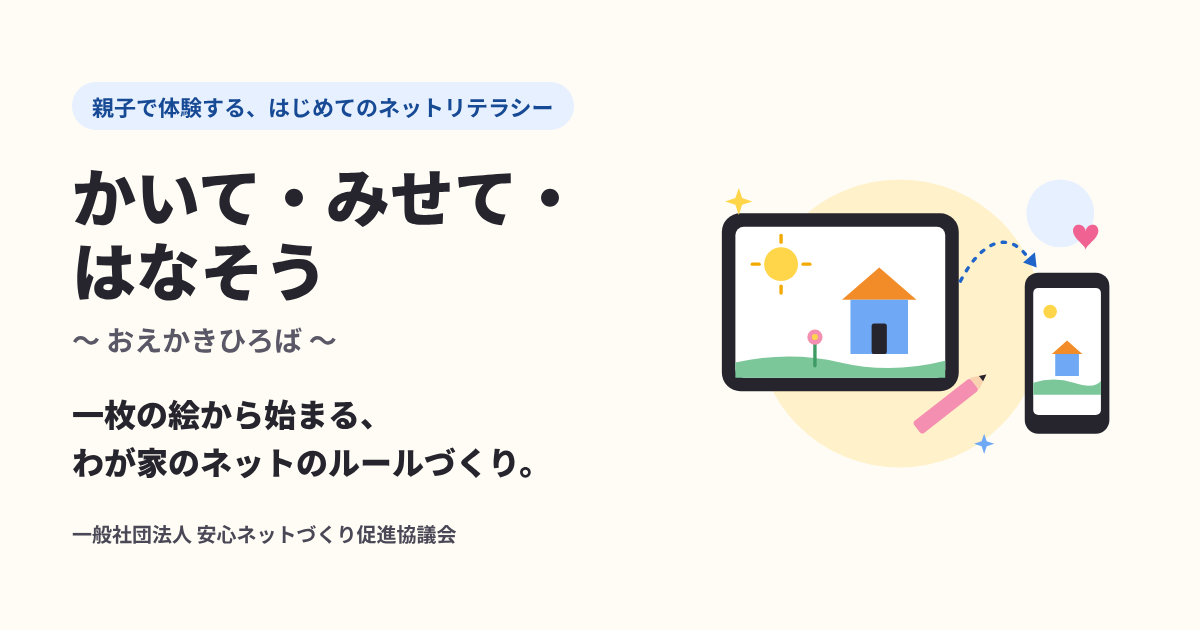
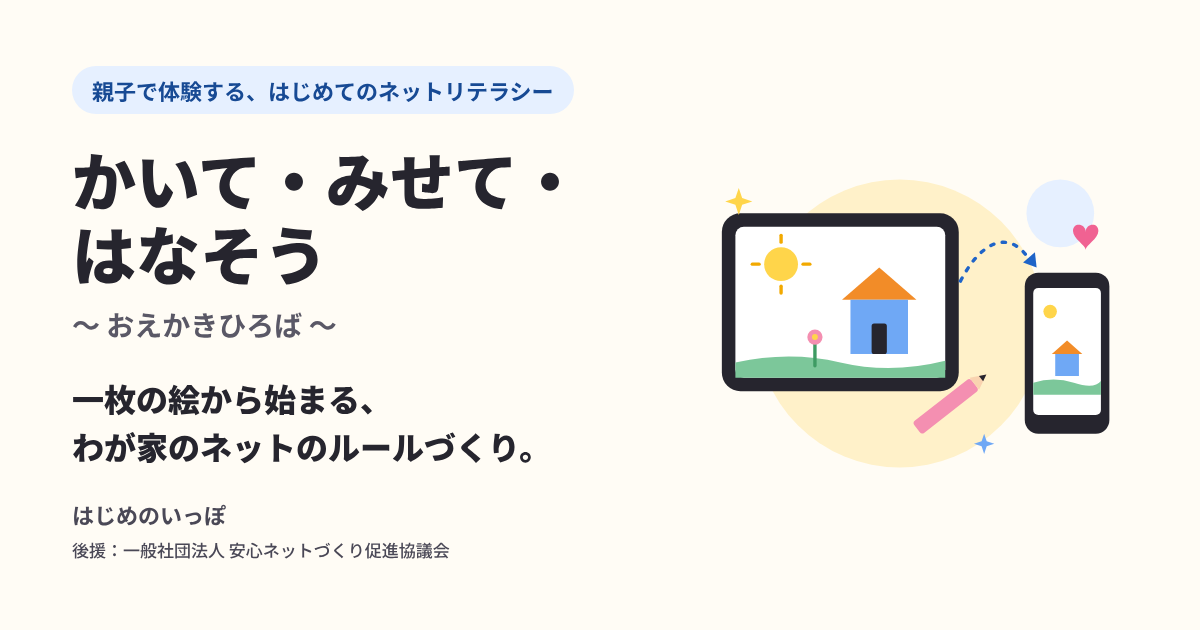
安心ネットづくり促進協議会の表記を「後援」に変更
Claude-Session: https://claude.ai/code/session_018FxDjrkxgG9Gp6VBXbLpP5

diff --git a/about.html b/about.html
@@ -132,7 +132,7 @@
   <div class="container">
     <div>
       <p class="brand">はじめのいっぽ</p>
-      <p class="org">一般社団法人 安心ネットづくり促進協議会</p>
+      <p class="org">後援：一般社団法人 安心ネットづくり促進協議会</p>
     </div>
     <nav class="footer-nav" aria-label="フッターメニュー">
       <ul>

diff --git a/howto.html b/howto.html
@@ -142,7 +142,7 @@
   <div class="container">
     <div>
       <p class="brand">はじめのいっぽ</p>
-      <p class="org">一般社団法人 安心ネットづくり促進協議会</p>
+      <p class="org">後援：一般社団法人 安心ネットづくり促進協議会</p>
     </div>
     <nav class="footer-nav" aria-label="フッターメニュー">
       <ul>

diff --git a/index.html b/index.html
@@ -143,7 +143,7 @@
   <div class="container">
     <div>
       <p class="brand">はじめのいっぽ</p>
-      <p class="org">一般社団法人 安心ネットづくり促進協議会</p>
+      <p class="org">後援：一般社団法人 安心ネットづくり促進協議会</p>
     </div>
     <nav class="footer-nav" aria-label="フッターメニュー">
       <ul>

diff --git a/kindergarten.html b/kindergarten.html
@@ -116,7 +116,7 @@
   <div class="container">
     <div>
       <p class="brand">はじめのいっぽ</p>
-      <p class="org">一般社団法人 安心ネットづくり促進協議会</p>
+      <p class="org">後援：一般社団法人 安心ネットづくり促進協議会</p>
     </div>
     <nav class="footer-nav" aria-label="フッターメニュー">
       <ul>

diff --git a/parents.html b/parents.html
@@ -136,7 +136,7 @@
   <div class="container">
     <div>
       <p class="brand">はじめのいっぽ</p>
-      <p class="org">一般社団法人 安心ネットづくり促進協議会</p>
+      <p class="org">後援：一般社団法人 安心ネットづくり促進協議会</p>
     </div>
     <nav class="footer-nav" aria-label="フッターメニュー">
       <ul>

diff --git a/contact.html b/contact.html
@@ -65,7 +65,7 @@
   <div class="container">
     <div>
       <p class="brand">はじめのいっぽ</p>
-      <p class="org">一般社団法人 安心ネットづくり促進協議会</p>
+      <p class="org">後援：一般社団法人 安心ネットづくり促進協議会</p>
     </div>
     <nav class="footer-nav" aria-label="フッターメニュー">
       <ul>

diff --git a/kids.html b/kids.html
@@ -89,7 +89,7 @@
   <div class="container">
     <div>
       <p class="brand">はじめのいっぽ</p>
-      <p class="org">一般社団法人 安心ネットづくり促進協議会</p>
+      <p class="org">後援：一般社団法人 安心ネットづくり促進協議会</p>
     </div>
     <nav class="footer-nav" aria-label="フッターメニュー">
       <ul>
